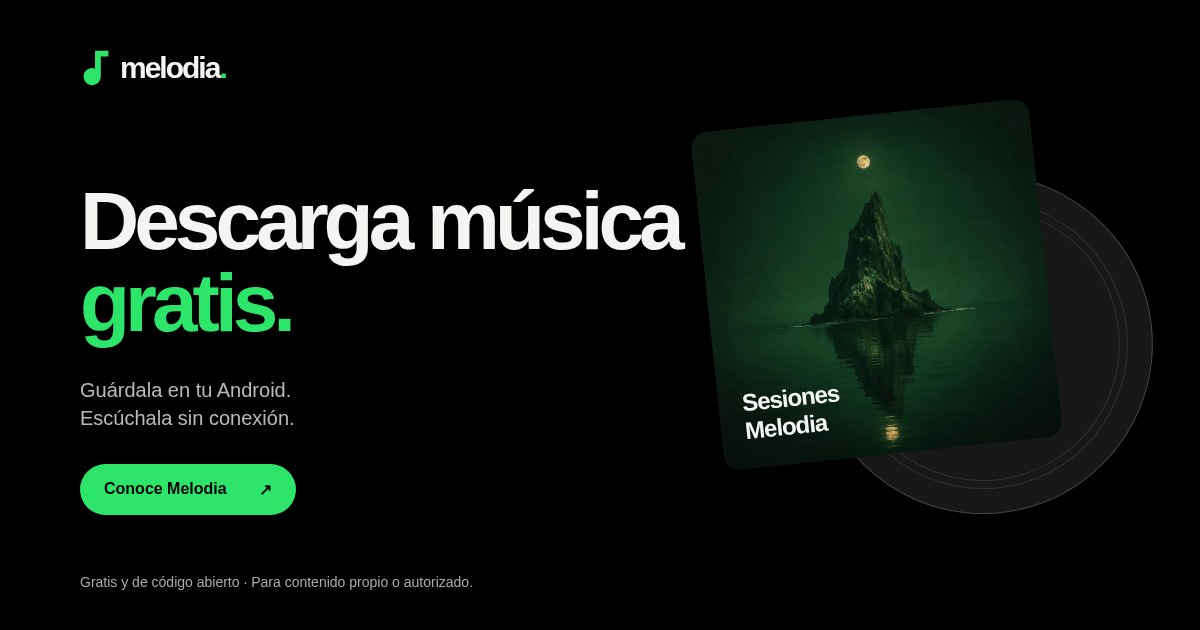
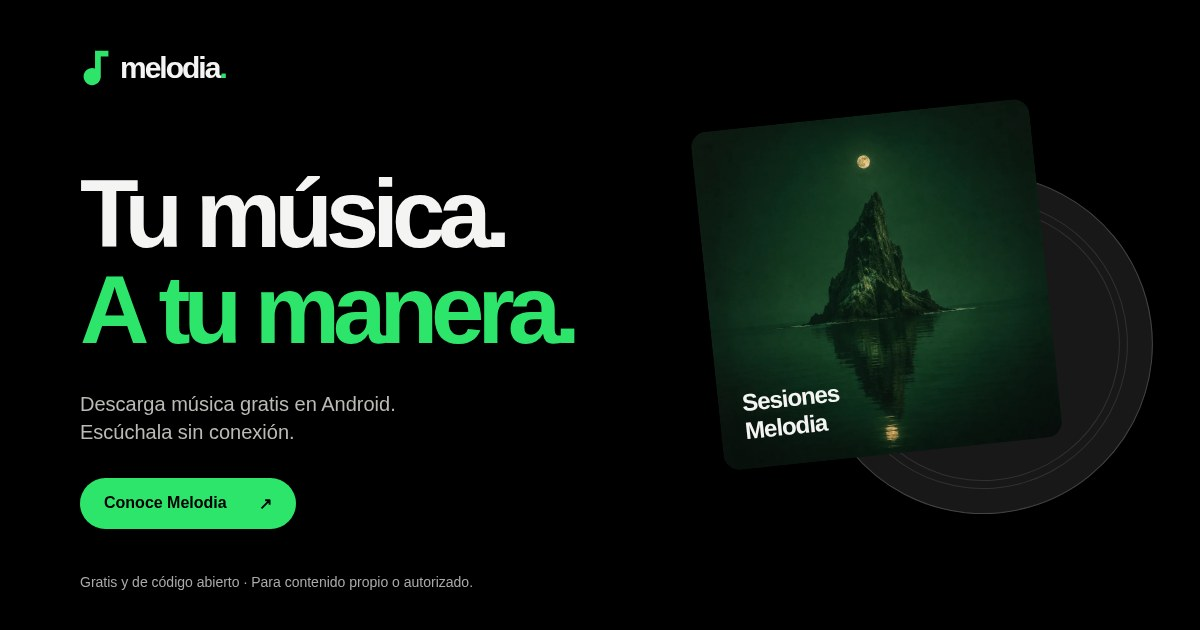
Restaurar H1 de marca y conservar descargas gratis en el subtitulo

diff --git a/web/src/styles.css b/web/src/styles.css
@@ -87,7 +87,6 @@ p { text-wrap: pretty; }
 .signal-dot { display: inline-block; height: 8px; width: 8px; background: var(--accent); border-radius: 9999px; }
 .hero h1 { font-size: 72px; line-height: 1; letter-spacing: -.065em; font-weight: 600; max-width: 680px; background: linear-gradient(100deg,#fff 5%,#9b9b9b 100%); color: transparent; background-clip: text; -webkit-background-clip: text; }
 .hero h1 span { white-space: nowrap; }
-.hero h1 .hero-free { color: var(--accent); }
 .hero-description { font-size: 18px; line-height: 28px; color: #b9bcb5; max-width: 400px; margin-block: 24px 32px; }
 .hero-cta { min-height: 56px; }
 .hero-terms { max-width: 370px; margin-top: 14px; color: var(--muted); font-size: 13px; line-height: 1.6; animation-delay: 280ms; }
@@ -309,7 +308,7 @@ p { text-wrap: pretty; }
   .site-footer > nav a:hover { color: var(--accent); }
 }
 @media (min-width: 1536px) {
-  .hero h1 { font-size: 82px; }
+  .hero h1 { font-size: 96px; }
   .hero { grid-template-columns: 1.15fr 1fr; min-height: 900px; }
   .hero-visual { padding-inline: 40px; }
   .hero-bottom { margin-top: 0; }
@@ -333,7 +332,7 @@ p { text-wrap: pretty; }
   .nav-island { gap: 24px; padding-left: 16px; }
   .desktop-links { gap: 16px; }
   .desktop-links a { font-size: 12px; line-height: 16px; }
-  .hero h1 { font-size: clamp(40px, 5.4vw, 48px); }
+  .hero h1 { font-size: 48px; }
   .hero-visual { min-height: 560px; }
   .demo-frame { width: 288px; padding-inline: 16px; }
   .demo-track h2 { font-size: 18px; line-height: 28px; }
@@ -454,7 +453,7 @@ p { text-wrap: pretty; }
 }
 @media (max-width: 479px) {
   .hero { padding-top: 96px; }
-  .hero h1 { font-size: clamp(34px, 10vw, 44px); line-height: 1; letter-spacing: -.055em; }
+  .hero h1 { font-size: 48px; line-height: 1; }
   .hero-copy { padding-block: 24px; }
   .offline-panel { padding: 28px 22px; gap: 32px; }
   .offline-copy h2 { font-size: 30px; }
@@ -496,7 +495,7 @@ p { text-wrap: pretty; }
   .record-wrap { left: auto; right: 0; width: 224px; top: 112px; }
   .floating-note { display: none; }
   .demo-bottom { font-size: 12px; line-height: 16px; gap: 4px; }
-  .hero h1 { font-size: 34px; }
+  .hero h1 { font-size: 48px; }
   .word-reveal { font-size: 30px; line-height: 36px; }
   .sound-grid article { padding: 24px 16px; }
   .sound-grid h3 { font-size: 24px; line-height: 32px; }

diff --git a/web/index.html b/web/index.html
@@ -56,7 +56,7 @@
       <section class="hero wrap" id="inicio" aria-labelledby="hero-title">
         <div class="hero-copy">
           <div class="eyebrow hero-enter"><span class="signal-dot"></span> Gratis y de código abierto</div>
-          <h1 id="hero-title" class="hero-enter">Descarga música<br /><span class="hero-free">gratis.</span></h1>
+          <h1 id="hero-title" class="hero-enter">Tu música.<br /><span>A tu manera.</span></h1>
           <p class="hero-description hero-enter">Busca música, descárgala gratis y escúchala sin conexión. Sin anuncios y sin crear una cuenta.</p>
           <a class="button hero-cta hero-enter" href="#descargar">Descargar para Android <svg class="icon" aria-hidden="true"><use href="/melodia/icons.svg#arrow-down-right" /></svg></a>
           <p class="hero-terms hero-enter">Para contenido propio o cuya descarga esté autorizada.</p>

diff --git a/web/scripts/render-social.py b/web/scripts/render-social.py
@@ -1,13 +1,14 @@
 #!/usr/bin/env python3
 """Tarjeta social de marca desde los mismos assets, sin capturas ficticias."""
 from pathlib import Path
+import os
 from playwright.sync_api import sync_playwright
 ROOT=Path(__file__).resolve().parents[1]
 CHROME=sorted(Path.home().glob('.cache/ms-playwright/chromium_headless_shell-*/chrome-linux/headless_shell'))[-1]
-BASE='http://127.0.0.1:8942/melodia/'
+BASE=os.environ.get('MELODIA_ASSET_BASE','http://127.0.0.1:8942/melodia/')
 HTML='''<!doctype html><html lang="es"><meta charset="utf-8"><style>
-@font-face{font-family:Manrope;src:url(BASEfonts/manrope-latin-variable.woff2);font-weight:200 800}*{box-sizing:border-box}html,body{margin:0;width:1200px;height:630px;background:#000;color:#f4f5f3;font-family:Manrope,sans-serif}body{display:flex;align-items:center;justify-content:space-between;padding:64px 80px}.brand{position:absolute;left:80px;top:48px;display:flex;gap:8px;align-items:center;font-size:30px;font-weight:700;letter-spacing:-2px}.brand img{width:32px;height:40px}.copy{width:650px;padding-top:64px;z-index:2}h1{font-size:82px;line-height:1;letter-spacing:-5px;font-weight:600;margin:0}h1 span{color:#2ee56b}p{font-size:20px;color:#b9bcb5;line-height:28px;margin:32px 0;max-width:480px}.cta{display:inline-flex;align-items:center;gap:32px;background:#2ee56b;color:#000;padding:16px 24px;border-radius:100px;font-size:16px;font-weight:700}.art{width:370px;height:420px;position:relative;transform:rotate(6deg);margin-top:32px}.record{position:absolute;width:340px;height:340px;border-radius:50%;background:#181818;border:1px solid #444;left:64px;top:48px;box-shadow:inset 0 0 0 24px #181818,inset 0 0 0 25px #313131,inset 0 0 0 32px #181818,inset 0 0 0 33px #313131}.cover{position:absolute;width:340px;height:340px;left:-48px;top:0;border-radius:16px;overflow:hidden;transform:rotate(-12deg)}.cover img{width:100%;height:100%;object-fit:cover}.cover span{position:absolute;left:24px;bottom:24px;font-size:24px;font-weight:600;line-height:28px;letter-spacing:-1px}.foot{position:absolute;bottom:40px;left:80px;color:#a9aaa7;font-size:14px}.dot{color:#2ee56b}
-</style><div class="brand"><img src="BASEimages/mark.svg"><span>melodia<span class="dot">.</span></span></div><div class="copy"><h1>Descarga música<br><span>gratis.</span></h1><p>Guárdala en tu Android.<br>Escúchala sin conexión.</p><div class="cta">Conoce Melodia <span>↗</span></div></div><div class="art"><div class="record"></div><div class="cover"><img src="BASEimages/caratula.webp"><span>Sesiones<br>Melodia</span></div></div><div class="foot">Gratis y de código abierto · Para contenido propio o autorizado.</div></html>'''.replace('BASE',BASE)
+@font-face{font-family:Manrope;src:url(BASEfonts/manrope-latin-variable.woff2);font-weight:200 800}*{box-sizing:border-box}html,body{margin:0;width:1200px;height:630px;background:#000;color:#f4f5f3;font-family:Manrope,sans-serif}body{display:flex;align-items:center;justify-content:space-between;padding:64px 80px}.brand{position:absolute;left:80px;top:48px;display:flex;gap:8px;align-items:center;font-size:30px;font-weight:700;letter-spacing:-2px}.brand img{width:32px;height:40px}.copy{width:650px;padding-top:64px;z-index:2}h1{font-size:96px;line-height:1;letter-spacing:-7px;font-weight:600;margin:0}h1 span{color:#2ee56b}p{font-size:20px;color:#b9bcb5;line-height:28px;margin:32px 0;max-width:480px}.cta{display:inline-flex;align-items:center;gap:32px;background:#2ee56b;color:#000;padding:16px 24px;border-radius:100px;font-size:16px;font-weight:700}.art{width:370px;height:420px;position:relative;transform:rotate(6deg);margin-top:32px}.record{position:absolute;width:340px;height:340px;border-radius:50%;background:#181818;border:1px solid #444;left:64px;top:48px;box-shadow:inset 0 0 0 24px #181818,inset 0 0 0 25px #313131,inset 0 0 0 32px #181818,inset 0 0 0 33px #313131}.cover{position:absolute;width:340px;height:340px;left:-48px;top:0;border-radius:16px;overflow:hidden;transform:rotate(-12deg)}.cover img{width:100%;height:100%;object-fit:cover}.cover span{position:absolute;left:24px;bottom:24px;font-size:24px;font-weight:600;line-height:28px;letter-spacing:-1px}.foot{position:absolute;bottom:40px;left:80px;color:#a9aaa7;font-size:14px}.dot{color:#2ee56b}
+</style><div class="brand"><img src="BASEimages/mark.svg"><span>melodia<span class="dot">.</span></span></div><div class="copy"><h1>Tu música.<br><span>A tu manera.</span></h1><p>Descarga música gratis en Android.<br>Escúchala sin conexión.</p><div class="cta">Conoce Melodia <span>↗</span></div></div><div class="art"><div class="record"></div><div class="cover"><img src="BASEimages/caratula.webp"><span>Sesiones<br>Melodia</span></div></div><div class="foot">Gratis y de código abierto · Para contenido propio o autorizado.</div></html>'''.replace('BASE',BASE)
 with sync_playwright() as p:
  b=p.chromium.launch(executable_path=str(CHROME),args=['--no-sandbox'])
  page=b.new_page(viewport={'width':1200,'height':630},device_scale_factor=1)

diff --git a/web/scripts/qa-mobile.py b/web/scripts/qa-mobile.py
@@ -54,14 +54,15 @@ try:
                     const h=document.querySelector('h1'), cta=document.querySelector('.hero-cta');
                     const style=getComputedStyle(h), r=h.getBoundingClientRect();
                     return {width:innerWidth,clientWidth:document.documentElement.clientWidth,height:innerHeight,overflow:document.documentElement.scrollWidth-innerWidth,
-                      heading:h.innerText,headingLines:r.height/parseFloat(style.lineHeight),
+                      heading:h.innerText,description:document.querySelector('.hero-description').innerText,headingLines:r.height/parseFloat(style.lineHeight),
                       headingSize:style.fontSize,ctaBottom:cta.getBoundingClientRect().bottom,
-                      manrope:document.fonts.check('600 48px "Manrope Variable"','Descarga música gratis.'),
+                      manrope:document.fonts.check('600 48px "Manrope Variable"','Tu música. A tu manera.'),
                       loaded:[...document.fonts].filter(f=>f.status==='loaded').map(f=>f.family)};
                 }''')
                 record(f'{key}:http', response is not None and response.status == 200)
                 record(f'{key}:real-viewport', m['width'] == width and m['clientWidth'] == width and m['height'] == height, m)
-                record(f'{key}:free-download-headline', 'Descarga música' in m['heading'] and 'gratis.' in m['heading'])
+                record(f'{key}:brand-headline', ' '.join(m['heading'].split()) == 'Tu música. A tu manera.')
+                record(f'{key}:free-download-subtitle', 'descárgala gratis' in m['description'] and 'sin conexión' in m['description'])
                 record(f'{key}:two-line-headline', m['headingLines'] <= 2.1, m['headingLines'])
                 record(f'{key}:font-loaded', m['manrope'] and any('Manrope' in f for f in m['loaded']))
                 if width < 768 and height > width:

diff --git a/web/scripts/qa.py b/web/scripts/qa.py
@@ -37,7 +37,7 @@ with sync_playwright() as pw:
         response=page.goto(URL,wait_until='networkidle')
         page.evaluate('document.fonts.ready')
         page.wait_for_timeout(1300)
-        metrics=page.evaluate("""()=>{const h=document.querySelector('h1'),cta=document.querySelector('.hero-cta'),stage=document.querySelector('.hero-visual');return {width:innerWidth,height:innerHeight,overflow:document.documentElement.scrollWidth-innerWidth,fontReady:document.fonts.check('600 48px "Manrope Variable"','Descarga música gratis.'),fonts:[...document.fonts].filter(f=>f.status==='loaded').map(f=>f.family),heroTitle:{size:getComputedStyle(h).fontSize,height:h.getBoundingClientRect().height},ctaBottom:cta.getBoundingClientRect().bottom,visualTop:stage.getBoundingClientRect().top,pageHeight:document.documentElement.scrollHeight};}""")
+        metrics=page.evaluate("""()=>{const h=document.querySelector('h1'),cta=document.querySelector('.hero-cta'),stage=document.querySelector('.hero-visual');return {width:innerWidth,height:innerHeight,overflow:document.documentElement.scrollWidth-innerWidth,fontReady:document.fonts.check('600 48px "Manrope Variable"','Tu música. A tu manera.'),fonts:[...document.fonts].filter(f=>f.status==='loaded').map(f=>f.family),heroTitle:{size:getComputedStyle(h).fontSize,height:h.getBoundingClientRect().height},ctaBottom:cta.getBoundingClientRect().bottom,visualTop:stage.getBoundingClientRect().top,pageHeight:document.documentElement.scrollHeight};}""")
         record(f'{width}:http',response is not None and response.status==200)
         record(f'{width}:viewport-real',metrics['width']==width,metrics['width'])
         record(f'{width}:overflow',metrics['overflow']==0,metrics['overflow'])

diff --git a/web/README.md b/web/README.md
@@ -8,7 +8,7 @@ Fuente: `/home/ubuntu/projects/melodia/web`. No modifica ni recompila la app And
 
 ## Dirección y mensaje
 
-La prioridad de César es destacar **la descarga gratuita de música y la escucha sin conexión**, no solamente que el APK sea gratis. El copy vigente tiene una sola fuente: `index.html`. Usar contenido propio o cuya descarga esté autorizada; no prometer catálogos, permisos sobre música ajena, disponibilidad universal ni elusión de pagos.
+La prioridad de César es destacar **la descarga gratuita de música y la escucha sin conexión**, no solamente que el APK sea gratis. El H1 de marca aprobado se conserva: destacar un beneficio no autoriza a reemplazarlo. La descarga gratuita vive en el subtítulo y la sección dedicada. El copy vigente tiene una sola fuente: `index.html`. Usar contenido propio o cuya descarga esté autorizada; no prometer catálogos, permisos sobre música ajena, disponibilidad universal ni elusión de pagos.
 
 Se conserva el diseño aprobado: negro, verde `#2EE56B`, Manrope autoalojada, composición editorial asimétrica y animaciones accesibles. No hay anuncios, píxeles, métricas de adopción, testimonios, correo ni perfiles sociales inventados.
 

diff --git a/.agents/product-marketing.md b/.agents/product-marketing.md
@@ -25,7 +25,7 @@ Melodia es un reproductor para Android que organiza y reproduce los archivos de 
 ## Posicionamiento, promesa y beneficios
 
 **Categoría:** reproductor de música para Android, centrado en la biblioteca personal.
-**Promesa prioritaria por pedido de César:** descarga música gratis y escúchala sin conexión; la gratuidad corresponde a la función de Melodia, no a derechos sobre cualquier canción. Usar contenido propio o autorizado. Biblioteca, listas y sonido respaldan esa promesa.
+**Jerarquía aprobada por César:** conservar el H1 de marca; destacar la descarga gratuita y la escucha sin conexión en el subtítulo y la sección dedicada, no sustituir el título. La gratuidad corresponde a la función de Melodia, no a derechos sobre cualquier canción. Usar contenido propio o autorizado.
 **Diferencia a demostrar, no superioridad a proclamar:** control de la colección local + organización + ajustes de sonido en una experiencia visual coherente.
 
 | Beneficio para quien escucha | Copy utilizable | Límite |
